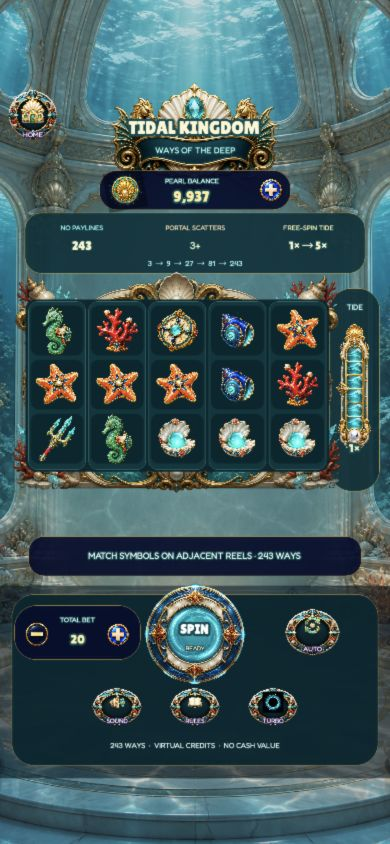
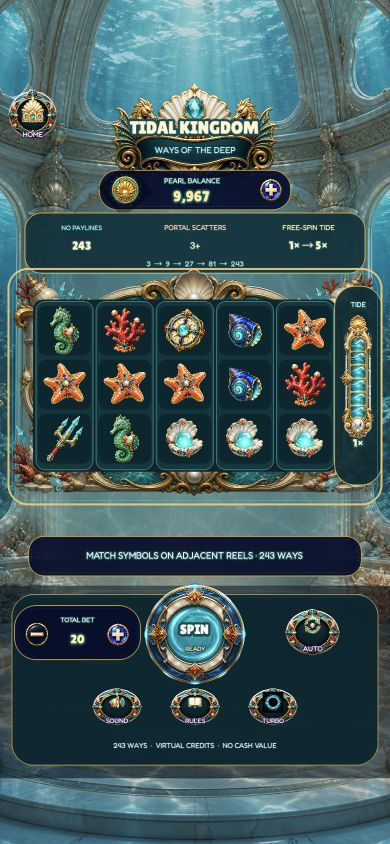
fix: wrap tidal reels inside cabinet frame

diff --git a/游戏模版/S04_5x3_243Ways_FreeSpins_TidalKingdom_v1.0.0/assets/scripts/game/TidalKingdomGame.ts b/游戏模版/S04_5x3_243Ways_FreeSpins_TidalKingdom_v1.0.0/assets/scripts/game/TidalKingdomGame.ts
@@ -276,16 +276,6 @@ export class GameBootstrap extends Component {
         this.createPanel('GlobalTint', this.node, this.sceneWidth, this.sceneHeight, new Color(4, 8, 29, 35), 0, 0);
         this.createPanel('BottomShade', this.node, this.sceneWidth, 370, new Color(2, 19, 28, 150), 0, -500);
 
-        // The tide is a real game-state instrument attached to the reels, not a decorative side character.
-        const tideMeter = this.createGlassPanel('TideMeter', this.node, 96, 390, 307, 62, 42, new Color(2, 45, 53, 230), new Color(231, 190, 91, 220));
-        const tideTitle = this.createLabel('TIDE', tideMeter, 17, new Color(221, 255, 250), 0, 159, 76, 28, true);
-        this.styleLabel(tideTitle, new Color(3, 67, 73), 3);
-        const tideArt = this.createImage('TideArtifact', tideMeter, 'tideMeter', 112, 258, 0, 10);
-        this.tideMultiplierLabel = this.createLabel('1×', tideMeter, 29, new Color(255, 244, 197), 0, -112, 76, 42, true);
-        this.styleLabel(this.tideMultiplierLabel, new Color(5, 74, 81), 4);
-        this.addButton(tideMeter, () => this.showKeeperTip());
-        if (!this.reducedMotion) tween(tideArt).repeatForever(tween().to(1.6, { position: new Vec3(0, 16, 0) }, { easing: 'sineInOut' }).to(1.6, { position: new Vec3(0, 4, 0) }, { easing: 'sineInOut' })).start();
-
         this.createHomeButton();
         this.createTitle();
         this.createBalance();
@@ -353,12 +343,13 @@ export class GameBootstrap extends Component {
     private createBoard(): void {
         this.boardRoot = new Node('BoardRoot');
         this.node.addChild(this.boardRoot);
-        this.boardRoot.setPosition(-34, 66);
-        this.ensureTransform(this.boardRoot, 670, 500);
-        this.createImage('ReelCabinet', this.boardRoot, 'reelFrame', 660, 456, 0, 6);
-        const inner = this.createPanel('ReelInterior', this.boardRoot, 596, 338, new Color(2, 37, 45, 248), 0, 2, 20);
+        this.boardRoot.setPosition(0, 66);
+        this.ensureTransform(this.boardRoot, 744, 500);
+        const reelCabinet = this.createImage('ReelCabinet', this.boardRoot, 'reelFrame', 740, 470, 0, 6);
+        const reelOffsetX = -20;
+        const inner = this.createPanel('ReelInterior', this.boardRoot, 596, 338, new Color(2, 37, 45, 248), reelOffsetX, 2, 20);
         inner.setSiblingIndex(1);
-        const xs = [-236, -118, 0, 118, 236];
+        const xs = [-256, -138, -20, 98, 216];
         const ys = [106, 0, -106];
         xs.forEach((x, column) => {
             const lane = this.createGlassPanel(`ReelLane_${column}`, this.boardRoot, 112, 330, x, 2, 18, new Color(3, 57, 64, 220), new Color(105, 220, 207, 105));
@@ -386,11 +377,37 @@ export class GameBootstrap extends Component {
             }
             this.cells.push(rowViews);
         }
-        const glint = this.createImage('BoardGlint', this.boardRoot, 'shockwave', 38, 38, -286, 196);
+
+        // Keep the functional multiplier inside the same cabinet boundary as the reels.
+        const tideMeter = this.createGlassPanel('TideMeter', this.boardRoot, 92, 390, 320, 2, 40, new Color(2, 45, 53, 238), new Color(231, 190, 91, 225));
+        const tideTitle = this.createLabel('TIDE', tideMeter, 17, new Color(221, 255, 250), 0, 159, 74, 28, true);
+        this.styleLabel(tideTitle, new Color(3, 67, 73), 3);
+        const tideArt = this.createImage('TideArtifact', tideMeter, 'tideMeter', 108, 258, 0, 10);
+        this.tideMultiplierLabel = this.createLabel('1×', tideMeter, 29, new Color(255, 244, 197), 0, -112, 72, 42, true);
+        this.styleLabel(this.tideMultiplierLabel, new Color(5, 74, 81), 4);
+        this.addButton(tideMeter, () => this.showKeeperTip());
+        if (!this.reducedMotion) tween(tideArt).repeatForever(tween().to(1.6, { position: new Vec3(0, 16, 0) }, { easing: 'sineInOut' }).to(1.6, { position: new Vec3(0, 4, 0) }, { easing: 'sineInOut' })).start();
+
+        // The generated frame has an opaque centre, so keep its artwork behind the reels and add a
+        // transparent foreground lip that visibly closes around every child without covering symbols.
+        reelCabinet.setSiblingIndex(0);
+        const cabinetLip = new Node('CabinetForegroundLip');
+        this.boardRoot.addChild(cabinetLip);
+        this.ensureTransform(cabinetLip, 732, 462);
+        const lipGraphics = cabinetLip.addComponent(Graphics);
+        lipGraphics.strokeColor = new Color(242, 203, 112, 235);
+        lipGraphics.lineWidth = 5;
+        lipGraphics.roundRect(-366, -231, 732, 462, 38);
+        lipGraphics.stroke();
+        lipGraphics.strokeColor = new Color(80, 211, 205, 150);
+        lipGraphics.lineWidth = 2;
+        lipGraphics.roundRect(-358, -223, 716, 446, 32);
+        lipGraphics.stroke();
+        const glint = this.createImage('BoardGlint', this.boardRoot, 'shockwave', 38, 38, -322, 208);
         const glintOpacity = glint.addComponent(UIOpacity);
         glintOpacity.opacity = 0;
         if (!this.reducedMotion) {
-            tween(glint).repeatForever(tween().set({ position: new Vec3(-286, 196, 0), scale: new Vec3(0.5, 0.5, 1) }).to(2.2, { position: new Vec3(286, 196, 0), scale: new Vec3(1.2, 1.2, 1), angle: 180 }, { easing: 'sineInOut' }).delay(1.5)).start();
+            tween(glint).repeatForever(tween().set({ position: new Vec3(-322, 208, 0), scale: new Vec3(0.5, 0.5, 1) }).to(2.2, { position: new Vec3(322, 208, 0), scale: new Vec3(1.2, 1.2, 1), angle: 180 }, { easing: 'sineInOut' }).delay(1.5)).start();
             tween(glintOpacity).repeatForever(tween().to(0.22, { opacity: 170 }).delay(1.55).to(0.32, { opacity: 0 }).delay(1.61)).start();
         }
     }
@@ -455,15 +472,10 @@ export class GameBootstrap extends Component {
         };
         if (!landscape) {
             place('HomeButton', -312, 590);
-            const tideMeter = place('TideMeter', 307, 62);
-            if (tideMeter) {
-                tideMeter.active = true;
-                tideMeter.setScale(0.78, 0.78, 1);
-            }
             place('TitleCrest', 0, 548)?.setScale(0.88, 0.88, 1);
             place('BalancePanel', 0, 446);
             place('WaysRibbon', 0, 344)?.setScale(1, 1, 1);
-            place('BoardRoot', -34, 68)?.setScale(0.98, 0.98, 1);
+            place('BoardRoot', 0, 68)?.setScale(0.98, 0.98, 1);
             place('ControlDock', 0, -496);
             place('ResultPanel', 0, -258);
             place('BetPanel', -226, -405);
@@ -480,15 +492,10 @@ export class GameBootstrap extends Component {
         const left = -spread;
         const right = spread;
         place('HomeButton', -this.sceneWidth / 2 + 92, 565);
-        const tideMeter = place('TideMeter', left + (ultraWide ? 438 : 395), 86);
-        if (tideMeter) {
-            tideMeter.active = true;
-            tideMeter.setScale(ultraWide ? 1.05 : 0.9, ultraWide ? 1.05 : 0.9, 1);
-        }
         place('TitleCrest', right, ultraWide ? 520 : 522)?.setScale(ultraWide ? 1.1 : 1.02, ultraWide ? 1.1 : 1.02, 1);
         place('BalancePanel', right, 372)?.setScale(ultraWide ? 1.08 : 1, ultraWide ? 1.08 : 1, 1);
         place('WaysRibbon', left, 386)?.setScale(ultraWide ? 1.15 : 1.03, ultraWide ? 1.15 : 1.03, 1);
-        place('BoardRoot', left - 34, 92)?.setScale(ultraWide ? 1.32 : 1.13, ultraWide ? 1.32 : 1.13, 1);
+        place('BoardRoot', left, 92)?.setScale(ultraWide ? 1.32 : 1.13, ultraWide ? 1.32 : 1.13, 1);
         place('ControlDock', right, ultraWide ? -170 : -184)?.setScale(ultraWide ? 1.14 : 1, ultraWide ? 1.14 : 1, 1);
         place('ResultPanel', right, 122)?.setScale(ultraWide ? 1.12 : 1, ultraWide ? 1.12 : 1, 1);
         place('BetPanel', right - (ultraWide ? 226 : 210), -70)?.setScale(ultraWide ? 1.08 : 1, ultraWide ? 1.08 : 1, 1);
@@ -726,7 +733,7 @@ export class GameBootstrap extends Component {
     }
 
     private pulseTideMeter(): void {
-        const meter = this.node.getChildByName('TideMeter');
+        const meter = this.boardRoot.getChildByName('TideMeter');
         if (!meter) return;
         const base = meter.scale.clone();
         tween(meter).to(0.16, { scale: new Vec3(base.x * 1.08, base.y * 1.08, 1) }, { easing: 'backOut' }).to(0.25, { scale: base }, { easing: 'sineInOut' }).start();
